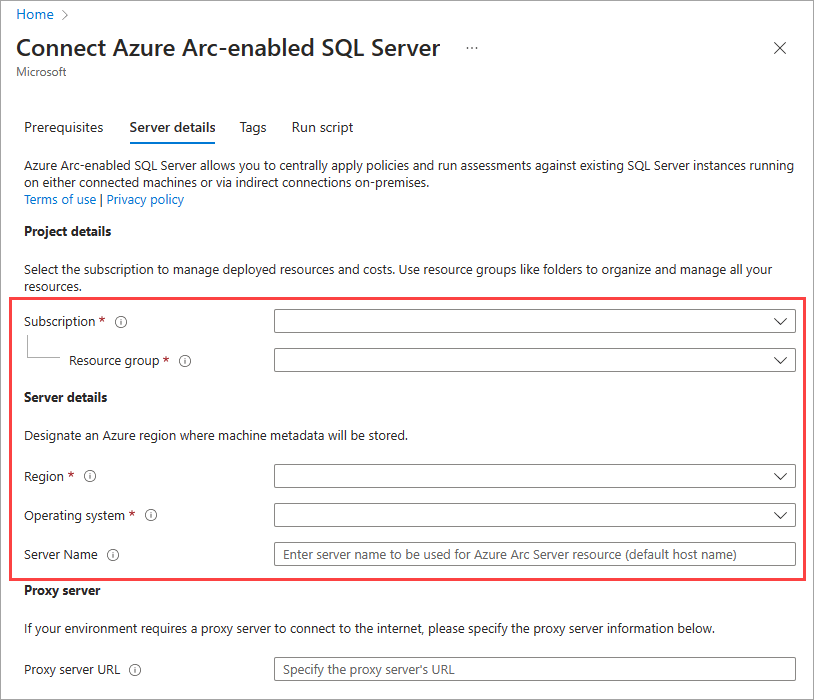
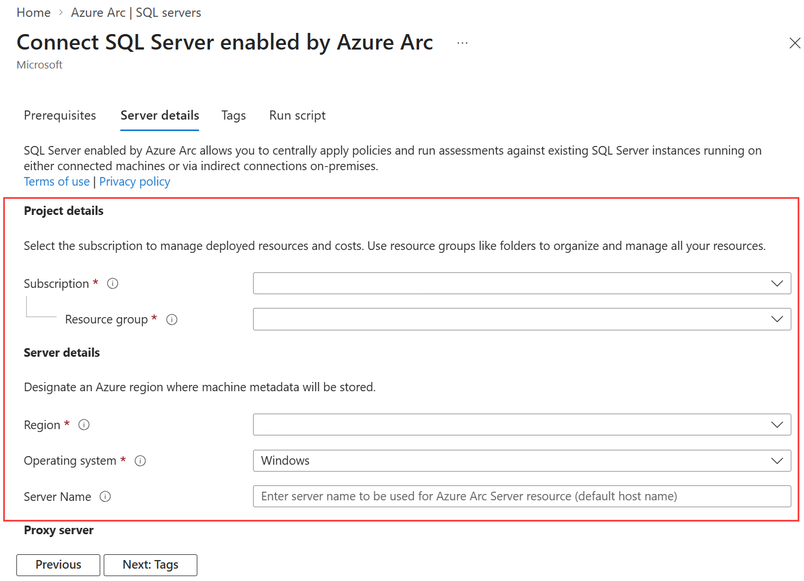
docs: Fix portal navigation and article integrity in Azure Arc connect article (#37010)

Changed region(s): [[0.0, 0.0, 1.0, 1.0], [0.0, 0.0, 0.5597, 0.1239]]

diff --git a/docs/sql-server/azure-arc/connect.md b/docs/sql-server/azure-arc/connect.md
@@ -28,11 +28,12 @@ If the server that runs your SQL Server instance isn't yet connected to Azure, y
 ### Generate an onboarding script for SQL Server
 
 1. Go to [Azure Arc](https://portal.azure.com/#view/Microsoft_Azure_ArcCenterUX/ArcCenterMenuBlade/~/getStarted) in the Azure portal.
-1. Under **Data services**, select **SQL Server instances** and then select **+ Add** to open the **Add existing SQL Server instances** page.
 
-   :::image type="content" source="media/join/start-creation-of-sql-server-azure-arc-resource.png" alt-text="Screenshot of the Azure Arc page with SQL Server instances and +Add selected." lightbox="media/join/start-creation-of-sql-server-azure-arc-resource.png":::
+1. Under **Data services**, select **SQL servers**. Under **SQL Server instances**, select **+ Add**.
 
-1. On the **Add existing SQL Server instances** page, select **Connect SQL Server instances** for a new registration or **Register SQL Server instances** for a disconnected instance.
+   The **Add existing SQL Server instances** page opens.
+
+1. Select **Connect SQL Server instances** for a new registration or **Register SQL Server instances** for a disconnected instance.
 
 1. Review the prerequisites and select **Next: Server details**
 
@@ -61,7 +62,6 @@ If the server that runs your SQL Server instance isn't yet connected to Azure, y
 1. Select **Next: Tags** to optionally add tags to the resource for your SQL Server instance.
 
 1. Select **Run script** to generate the onboarding script.
-Screenshot of
 
    :::image type="content" source="media/join/download-script-sql-server-azure-arc.png" alt-text="Screenshot of a download script." lightbox="media/join/download-script-sql-server-azure-arc.png":::
 
@@ -69,7 +69,7 @@ Screenshot of
 
 ### Connect SQL Server instances to Azure Arc
 
-In this step, execute the script you downloaded from the Azure portal, on the target machine. The script installs Azure extension for SQL Server. If the machine itself doesn't have the Azure connected machine agent installed, the script installs it first, then install the Azure extension for SQL Server. Azure connected machine agent registers the connected server as an Azure resource of type `Server - Azure Arc`, and the Azure extension for SQL Server connects the SQL Server instances as an Azure resource of type `SQL Server - Azure Arc`.
+In this step, execute the script you downloaded from the Azure portal, on the target machine. The script installs Azure extension for SQL Server. If the machine itself doesn't have the Azure connected machine agent installed, the script installs it first, then installs the Azure extension for SQL Server. Azure connected machine agent registers the connected server as an Azure resource of type `Server - Azure Arc`, and the Azure extension for SQL Server connects the SQL Server instances as an Azure resource of type `SQL Server - Azure Arc`.
 
 > [!IMPORTANT]  
 > Make sure to execute the script using an account that meets the minimum permission requirements described in [prerequisites](prerequisites.md).